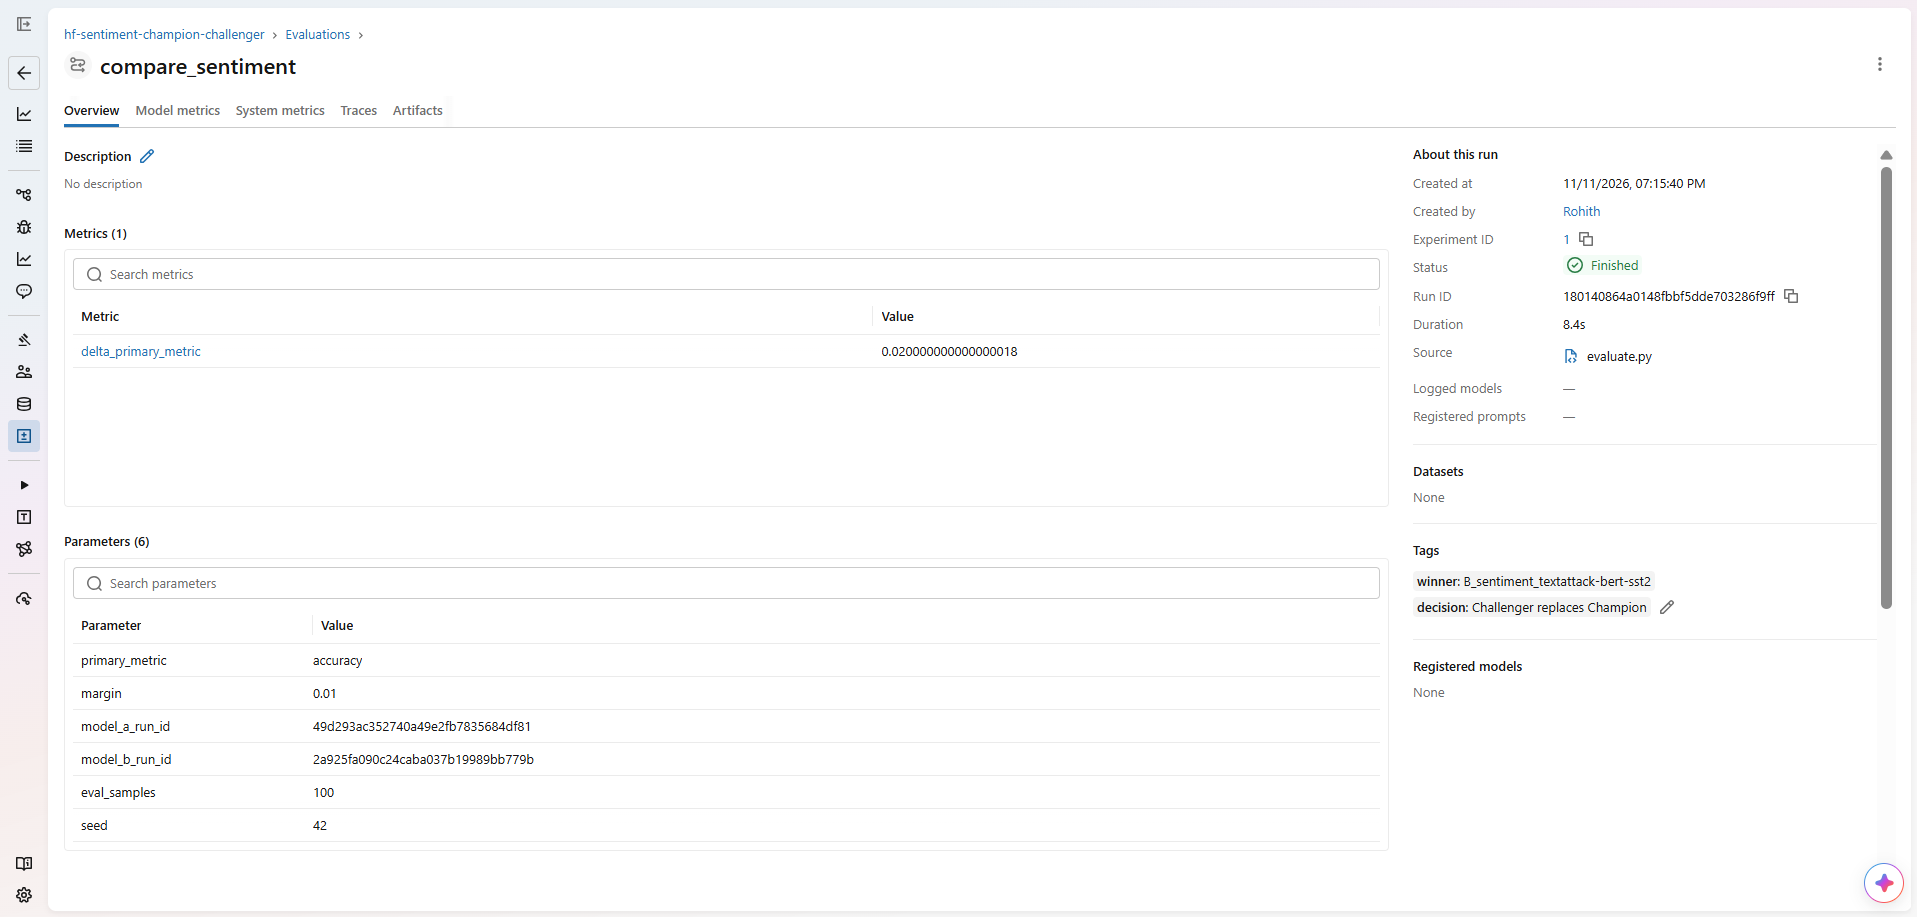
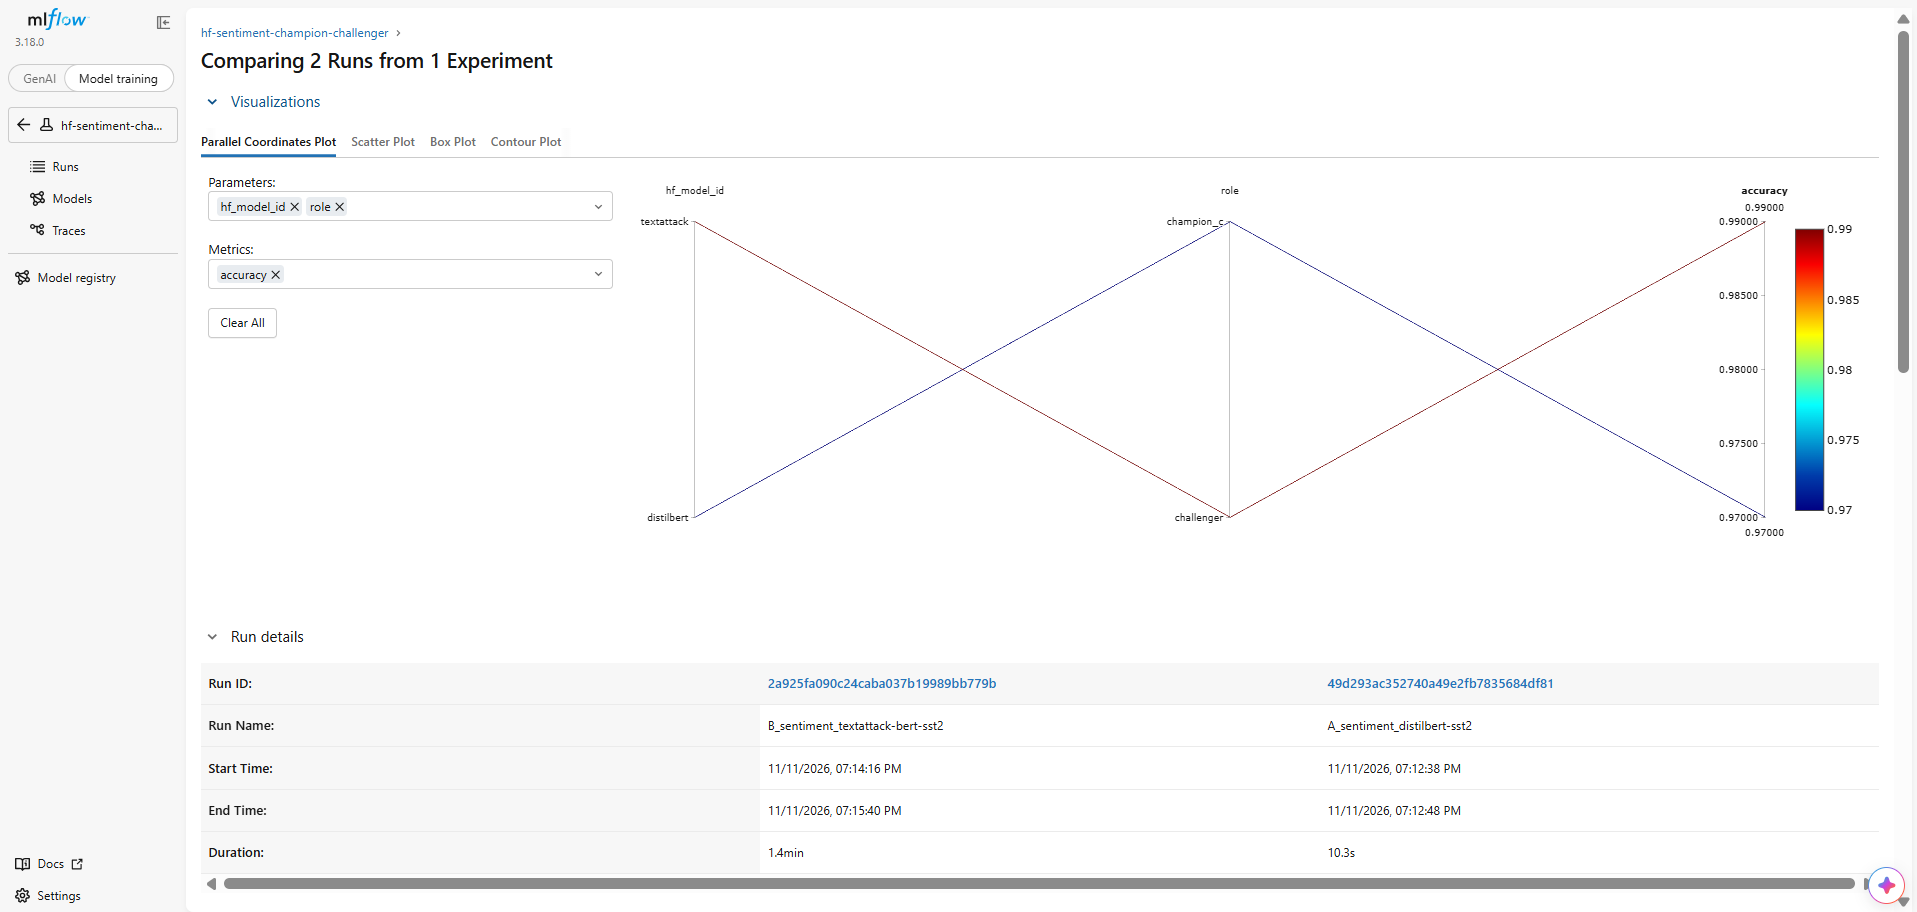
Finalize MLflow artifacts and champion challenger documentation

diff --git a/evaluate.py b/evaluate.py
@@ -410,6 +410,8 @@ def main():
         mlflow.log_artifact(str(summary_path))
         mlflow.log_artifact(str(comparison_plot))
         mlflow.log_artifact(str(disagreement_path))
+        mlflow.log_artifact("README.md")
+        mlflow.log_artifact("requirements.txt")
 
     print("\n========== COMPARISON ==========")
     print(pd.DataFrame(
